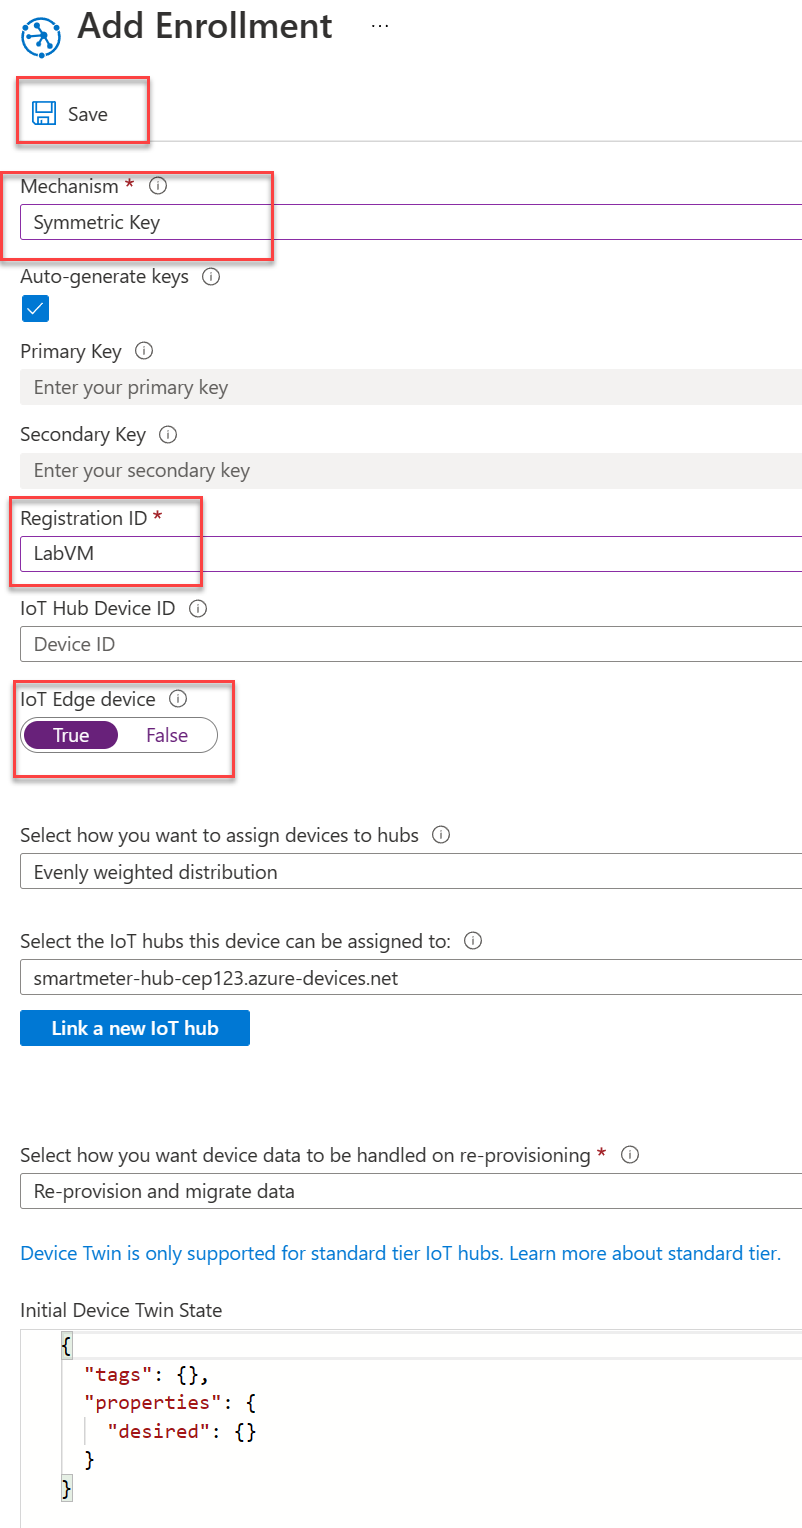
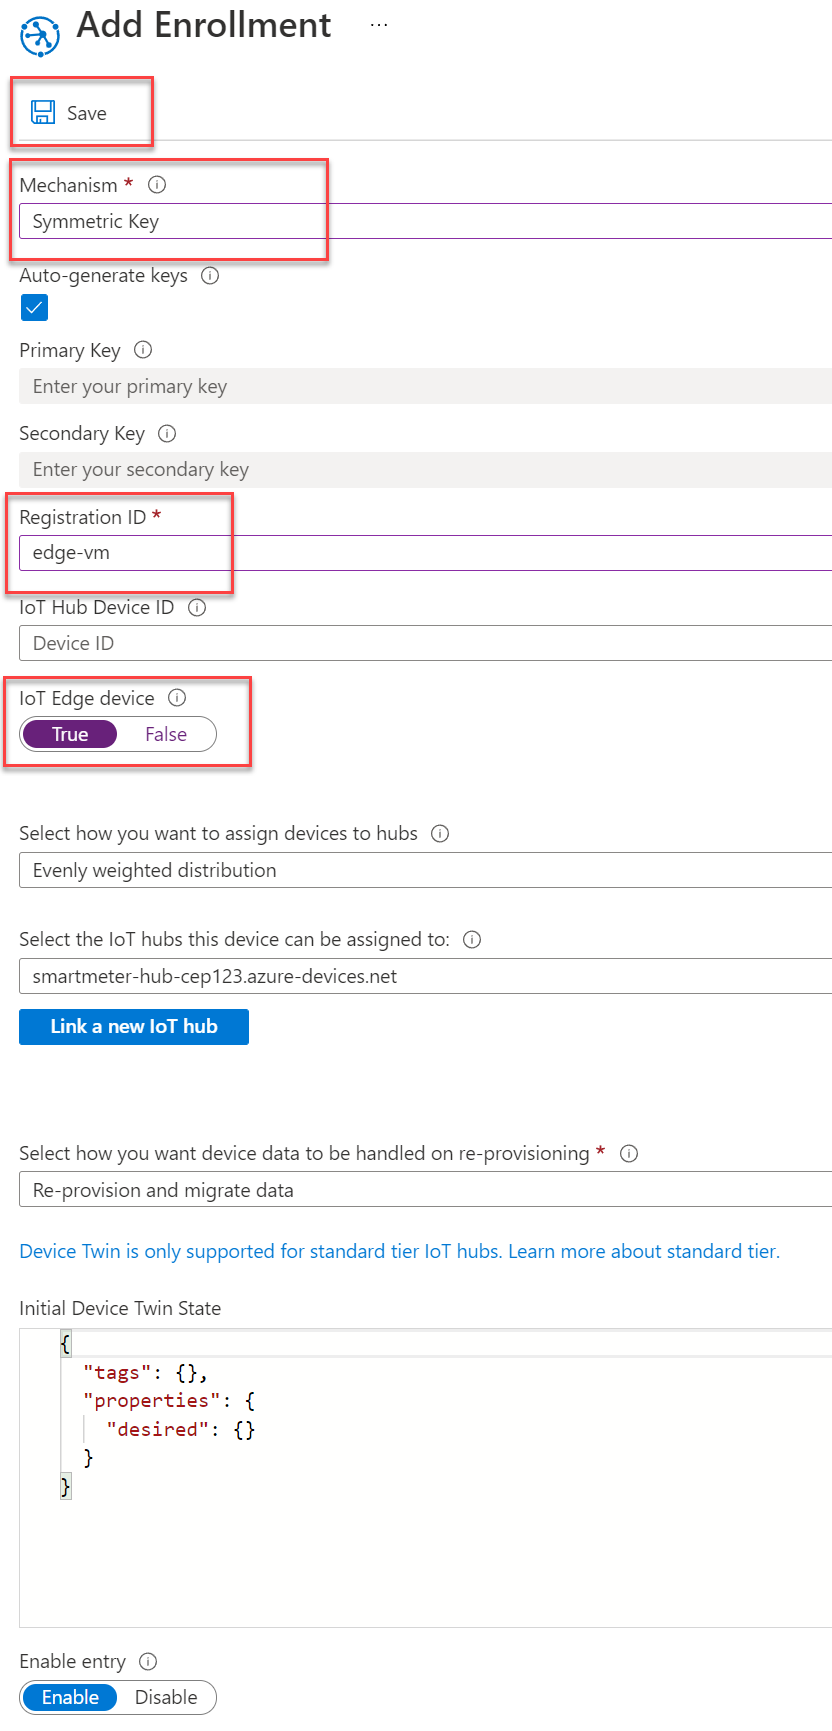
work in progress shifting to linux vm for edge gateway

diff --git a/Hands-on lab/HOL step-by-step - Internet of Things.md b/Hands-on lab/HOL step-by-step - Internet of Things.md
@@ -51,11 +51,8 @@ Microsoft and the trademarks listed at <https://www.microsoft.com/en-us/legal/in
     - [Task 1: Add your IoT Hub connection string to the CloudToDevice console app](#task-1-add-your-iot-hub-connection-string-to-the-cloudtodevice-console-app)
     - [Task 2: Send cloud-to-device messages](#task-2-send-cloud-to-device-messages)
   - [Exercise 5: Implement an IoT Edge Gateway](#exercise-5-implement-an-iot-edge-gateway)
-    - [Task 1: Install Hyper-V on the lab virtual machine](#task-1-install-hyper-v-on-the-lab-virtual-machine)
-    - [Task 2: Install a virtual switch on LabVM](#task-2-install-a-virtual-switch-on-labvm)
-    - [Task 3: Install Windows Admin Center](#task-3-install-windows-admin-center)
-    - [Task 4: Provision the IoT Edge device with the Azure IoT Hub Device Provisioning Service (DPS)](#task-4-provision-the-iot-edge-device-with-the-azure-iot-hub-device-provisioning-service-dps)
-    - [Task 5: Install Azure IoT Edge for Linux on Windows](#task-5-install-azure-iot-edge-for-linux-on-windows)
+    - [Task 1: Provision the IoT Edge device with the Azure IoT Hub Device Provisioning Service (DPS)](#task-1-provision-the-iot-edge-device-with-the-azure-iot-hub-device-provisioning-service-dps)
+    - [Task 2: Deploy a Linux server as an IoT Edge device](#task-2-deploy-a-linux-server-as-an-iot-edge-device)
   - [After the hands-on lab](#after-the-hands-on-lab)
     - [Task 1: Delete the resource group](#task-1-delete-the-resource-group)
 
@@ -1138,119 +1135,7 @@ In one customer building, Fabrikam would like to establish a transparent IoT Edg
 
 In this exercise, you will establish the LabVM as an IoT Edge transparent gateway and configure IoT devices to communicate through the gateway.
 
-### Task 1: Install Hyper-V on the lab virtual machine
-
-The IoT Edge runtime requires Hyper-V be installed on Windows-based operating systems.
-
-1. Connect to **LabVM**, select the start button and type `powershell`.
-
-2. Right-click on the **Windows PowerShell** item, then select **Run as administrator**.
-
-    ![The Windows start button is expanded with powershell entered into the search box and the Windows Powershell item's context menu showing with the Run as administrator item selected.](media/powershell_runasadministrator_menu.png "Run Windows PowerShell as administrator")
-
-3. At the PowerShell prompt, enter the following command to install Hyper-V on the virtual machine.
-
-    ```PowerShell
-    Install-WindowsFeature -Name Hyper-V -IncludeManagementTools
-    ```
-
-4. Restart the LabVM virtual machine to complete the installation process. Please allow enough time for the reboot to complete and then reconnect to the LabVM.
-
-### Task 2: Install a virtual switch on LabVM
-
-Windows Server does not have a virtual switch created and enabled by default, so we must do this manually on LabVM. This virtual switch is required to run IoT Edge for Linux on a Windows device.
-
->**Note**: Windows Desktop operating systems have this functionality out of the box.
-
-1. In **LabVM**, run Windows PowerShell as administrator once again.
-
-2. Run the following command to create a virtual machine switch.
-
-    ```PowerShell
-    New-VMSwitch -Name "iotedgevmswitch" -SwitchType Internal
-    ```
-
-3. Get the interface index of the created switch by executing the following. This execution will output a numeric index.
-
-    ```PowerShell
-    (Get-NetAdapter -Name '*iotedgevmswitch*').ifIndex
-    ```
-
-4. Using the interface index retrieved in the previous step, output the IP address information using the following command. Replace `{ifIndex}` with the numeric value output in the previous step. Record the IP Address value of the virtual switch.
-
-    ```PowerShell
-    Get-NetIPAddress -AddressFamily IPv4  -InterfaceIndex {ifIndex}
-    ```
-
-    ![A PowerShell command window displays with the preceding command, the IP Address value is highlighted in the output.](media/powershell_virtualswitchipaddress.png "Virtual Switch IP Address")
-
-5. Next, establish a new gateway IP address. To do this, replace the last octet of the virtual switch IP with `1`. As an example, if the ip address of the virtual switch is `169.254.196.168`, then the gateway IP would be `169.254.196.1`. Establish the gateway IP with the following command, replace the {gatewayIp} value with the new IP and the {ifIndex} value with the numeric interface index obtained earlier.
-
-    ```PowerShell
-    New-NetIPAddress -IPAddress {gatewayIp} -PrefixLength 24 -InterfaceIndex {ifIndex}
-    ```
-
-6. Create a Network Address Translation (NAT) object that translates an internal network address to an external network. This IP will take the virtual switch IP and replace the last octet with the value `0`. As an example, if the ip address of the virtual switch is `169.254.196.168`, then the NAT object IP would be `169.254.196.0`. Establish the NAT object with the following command, replacing the {natIp} with the new IP.
-
-    ```PowerShell
-    New-NetNat -Name "iotedgevmswitch" -InternalIPInterfaceAddressPrefix "{natIp}/24"
-    ```
-
-7. Install DHCP on the virtual machine using the following command.
-
-    ```PowerShell
-    Install-WindowsFeature -Name 'DHCP' -IncludeManagementTools
-    ```
-
-8. Add the DHCP server to the default local security group by issuing the following command.
-
-   ```PowerShell
-   netsh dhcp add securitygroups
-   ```
-
-9. Restart the DHCP service by executing the following command.
-
-    ```PowerShell
-    Restart-Service dhcpserver
-    ```
-
-10. Configure the DHCP server scope. Using the virtual switch IP, set the starting IP with the last octet replaced by `100` and the ending IP with the last octet replaced by `200`, this will allow the DHCP server to assign 100 IP addresses. Configure the DCHP server scope by issuing the following command, replacing {startIp} and {endIp} accordingly.
-
-    ```PowerShell
-    Add-DhcpServerV4Scope -Name "AzureIoTEdgeScope" -StartRange {startIp} -EndRange {endIp} -SubnetMask 255.255.255.0 -State Active
-    ```
-
-11. The following command will assign the NAT object and gateway IP to the DHCP server. Replace {natIp} and {gatewayIp} accordingly.
-
-    ```PowerShell
-    Set-DhcpServerV4OptionValue -ScopeID {natIp} -Router {gatewayIp}
-    ```
-
-12. Restart the DHCP service once more for the changes to take effect.
-
-    ```PowerShell
-    Restart-service dhcpserver
-    ```
-
-### Task 3: Install Windows Admin Center
-
-Windows Admin Center delivers a user interface that allows for the installation and management of IoT Edge on the device.
-
-1. In LabVM, open Google Chrome and open this [link](https://aka.ms/wacdownload) to download the installer.
-
-2. Run the downloaded MSI file, accepting all the default values.
-
-3. Once installation has completed, select **Finish** to dismiss the setup window.
-
-4. Return to Google Chrome, and open the following link: <https://LabVM:443>.
-
-5. From the top-right menu of Windows Admin Center, select **Settings**. From the left menu, select **Extensions**. Find **Azure IoT Edge** from the list, and select **Install** from the toolbar menu.
-
-    ![Windows Admin Center displays with extensions highlighted in the left menu and Azure IoT Edge selected from the list. The Install button is highlighted in the toolbar menu.](media/windowsadmincenter_installiotedgeextension.png "Install Azure IoT Edge")
-
-6. Once installed, the Windows Admin Center user interface will refresh. If desired, select the **Installed extensions** tab and confirm that Azure IoT Edge is installed.
-
-### Task 4: Provision the IoT Edge device with the Azure IoT Hub Device Provisioning Service (DPS)
+### Task 1: Provision the IoT Edge device with the Azure IoT Hub Device Provisioning Service (DPS)
 
 Earlier in the lab we provisioned smart meter devices at scale using an enrollment group with the Azure IoT Hub Device Provisioning Service (DPS). In this task, we will provision LabVM as an IoT Edge device using an individual enrollment. We will continue to use symmetric key attestation.
 
@@ -1267,43 +1152,141 @@ Earlier in the lab we provisioned smart meter devices at scale using an enrollme
     | Field | Value |
     |-------|-------|
     | Mechanism | Select **Symmetric Key**. |
-    | Registration ID | Enter `LabVM`. |
+    | Registration ID | Enter `edge-vm`. |
     | IoT Edge device | Select **True** |
 
     ![The Add Enrollment form displays populated with the preceding values.](media/dps_individualenrollment_edgeform.png "Add Enrollment")
 
-4. On the **Manage enrollments** screen, select the **Individual Enrollments** tab, then select the **LabVM** registration entry.
+4. On the **Manage enrollments** screen, select the **Individual Enrollments** tab, then select the **edge-vm** registration entry.
 
-    ![The Manage enrollments screen displays with the Individual Enrollments tab selected. The list of individual enrollments displays with LabVM selected.](media/dps_individualenrollments_list.png "Individual Enrollments")
+    ![The Manage enrollments screen displays with the Individual Enrollments tab selected. The list of individual enrollments displays with edge-vm selected.](media/dps_individualenrollments_list.png "Individual Enrollments")
 
-5. On the LabVM Enrollment Details screen, copy and record the Primary Key value to a text editor.
+5. On the edge-vm Enrollment Details screen, copy and record the Primary Key value to a text editor.
 
-    ![The LabVM Enrollment Details screen displays with the copy button highlighted next to the Primary Key value.](media/labvmenrollmentdetails.png "LabVM Enrollment Details")
+    ![The edge-vm Enrollment Details screen displays with the copy button highlighted next to the Primary Key value.](media/labvmenrollmentdetails.png "edge-vm Enrollment Details")
 
-### Task 5: Install Azure IoT Edge for Linux on Windows
+### Task 2: Deploy a Linux server as an IoT Edge device
 
-Now that the LabVM IoT Edge device is registered with the Device Provisioning Service, the Primary Key value can then be used in setting up the Azure IoT Edge runtime.
+The IoT Edge runtime can be installed on various form factors, from small development boards like the Raspberry Pi to industrial-sized servers. Fabrikam desires to deploy a Linux Virtual Machine to serve as the IoT Edge Gateway device.
 
-1. On LabVM using Google Chrome, download and install [Azure IoT Edge for Linux on Windows](https://aka.ms/AzEflowMSI). This will download an MSI file through the browser. Once download completes, run the installer. This installer may close automatically.
+1. In the Azure Portal, open the lab resource group and select **+ Create** from the toolbar menu.
 
-2. On LabVM using Google Chrome, access the Windows Admin Center at <https://LabVM:443>. If you already have Windows Admin Center, return to the connections page by selecting the **Windows Admin Center** text in the upper left corner.
+2. In the Search services and marketplace text box, enter and select `Ubuntu Server 18.04 LTS` from the suggestion list. Then on the resource screen, select **Create**.
 
-3. On the **All connections** screen, select **+ Add**.
+3. In the **Create a virtual machine** blade, fill the form as follows then select **Review + create**. Fields that are not specified can retain their default values.
 
-   ![The Windows Admin Center All connections screen displays with the + Add button highlighted.](media/windowsadmincenter_allconnections_add.png "Windows Admin Center All connections")
+    | Field | Value |
+    |-------|-------|
+    | Virtual machine name | Enter `edge-vm`. |
+    | Authentication type | Select **Password**. |
+    | Username | Enter `demouser`. |
+    | Password | Enter `Password.1!!`. |
+    | Confirm password | Enter `Password.1!!`.|
 
-4. On the **Add or create resources** screen, select the **Create new** button on the **Azure IoT Edge** card located beneath the **Other resources** heading.
+4. Once deployment has completed, open the newly deployed edge-vm resource and record the Public IP address value in a text editor.
 
-    ![The Azure IoT Edge card displays with the Create new button highlighted.](media/wac_createnewazureiotedge.png "Create new Azure IoT Edge")
+    ![The Virtual machine overview is displayed with the Public IP address value highlighted.](media/ubuntuvm_publicipaddress.png "Virtual machine Overview")
 
-5. On the **Getting Started**, **Prerequisites** section, select **Next**.
+5. In the upper right menu of the Azure Portal, open a cloud shell instance selecting **Bash** as the language of choice.
 
-6. On the **Getting Started**, **License Terms** section, check the **I Accept** checkbox, and then select **Next**.
+    ![The Azure Portal displays with the cloud shell icon highlighted in the top-right toolbar menu and Bash selected as the language.](media/cloudshell.png "Azure Portal Cloud Shell")
 
-7. On the **Getting Started**, **Diagnostic Data** section, select **Next: Deploy**.
+6. In the cloud shell, we will SSH into the virtual machine using the IP you recorded. At the Bash prompt, execute the following command, replacing {ipAddress} with the appropriate value.
 
-8. On the **Deploy**, **Target Device** screen, choose the **Select to evaluate** link next to the **labvm** connection.
-9. 
+    ```Bash
+    ssh demouser@{ipAddress}
+    ```
+
+7. When prompted for a password, enter `Password.1!!`.
+
+8. If prompted to trust the fingerprint, enter `yes`.
+
+9. You are now connected to the virtual machine, you can tell by the prompt changing to **demouser@edge-vm**. All commands executed will now be run on the virtual machine.
+
+    ![The Bash prompt displays demouser@edge-vm.](media/bash_demouserprompt.png "Bash prompt")
+
+10. Install the Microsoft installation packages repository configuration by executing the following.
+
+    ```Bash
+    curl https://packages.microsoft.com/config/ubuntu/18.04/multiarch/prod.list > ./microsoft-prod.list
+    ```
+
+11. Copy the generated list to the sources.list.d directory by issuing the following command.
+
+    ```Bash
+    sudo cp ./microsoft-prod.list /etc/apt/sources.list.d/
+    ```
+
+12. Install the Microsoft GPG public key.
+
+    ```Bash
+    curl https://packages.microsoft.com/keys/microsoft.asc | gpg --dearmor > microsoft.gpg
+    ```
+
+13. Copy the key to a trusted location by executing the following command.
+
+    ```Bash
+    sudo cp ./microsoft.gpg /etc/apt/trusted.gpg.d/
+    ```
+
+14. Now that the Microsoft package feed has been added and trusted, update the device package list by executing the following command.
+
+    ```Bash
+    sudo apt-get update
+    ```
+
+15. Install the moby container engine by issuing the following command. When prompted to continue, enter `Y`. This container engine will be used to run IoT Edge modules in the form of Docker containers.
+
+    ```Bash
+    sudo apt-get install moby-engine
+    ```
+
+16. Install the IoT Edge runtime by executing the following command. When prompted to continue, enter `y`.
+
+    ```Bash
+    sudo apt-get install aziot-edge
+    ```
+
+17. Create a configuration file from a template that will contain the device identity and Device Provisioning Service information by executing the following command.
+
+    ```Bash
+    sudo cp /etc/aziot/config.toml.edge.template /etc/aziot/config.toml
+    ```
+
+18. Edit the newly created configuration file by issuing the following command.
+
+    ```Bash
+    sudo nano /etc/aziot/config.toml
+    ```
+
+19. Using the arrow keys on the keyboard, find the location of the DPS provisioning with symmetric key section. Modify the id_scope, registration id (edge-vm), and symmetric_key (individual device enrollment primary key) values, then save the file (Ctrl+X, then Y, then press enter).
+
+    ![The IoT Edge configuration file is open in nano with the variables mentioned above replaced accordingly.](media/iotedge_dpsconfig.png "IoT Edge configuration")
+
+20. Apply the configuration changes by executing the following command.
+
+    ```Bash
+    sudo iotedge config apply
+    ```
+
+21. Verify the installation by checking the status of the IoT Edge service.
+
+    ```Bash
+    sudo iotedge system status
+    ```
+
+22. Discover installed IoT Edge modules. The **edgeAgent** module should be listed with a status of **running**.
+
+    ```Bash
+    sudo iotedge list
+    ```
+
+    ![A Bash window displays with the sudo iotedge list command executed. The edgeAgent module displays as running.](media/iotedge_edgelist_agentrunning.png "IoT Edge module listing")
+
+23. In the Azure Portal, open the lab resource group and select the **smartmeter-hub-{suffix}** IoT Hub. Verify the IoT Edge device successfully registered through the DPS by selecting **IoT Edge** from the left menu and finding **edge-vm** in the listing.
+
+    ![The IoT Hub screen displays with IoT Edge selected from the left menu and edge-vm highlighted in the IoT Edge Devices listing.](media/iothub_edgevm.png "Azure IoT Edge Devices Listing")
+
 ## After the hands-on lab
 
 Duration: 10 mins
